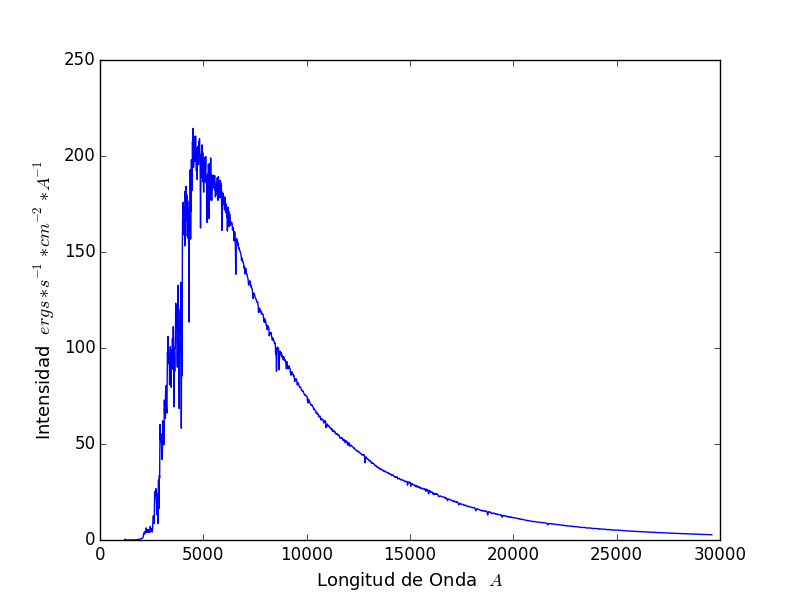
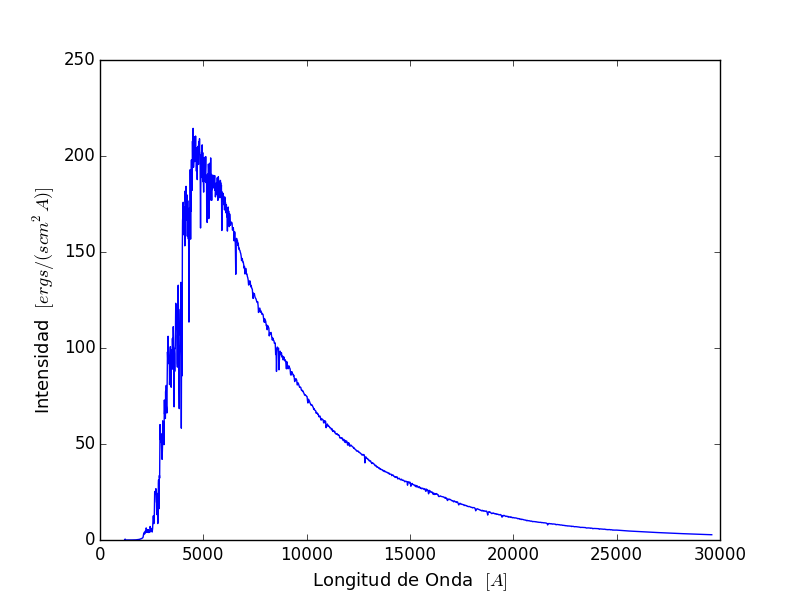
Cambios menores en los codigos

Changed region(s): [[0.0312, 0.3, 0.0625, 0.75], [0.375, 0.96, 0.625, 0.99]]

diff --git a/Integralplanck.py b/Integralplanck.py
@@ -1,7 +1,10 @@
 import numpy as np
 import scipy.constants as sc
+import scipy.integrate
 
 def y(x):
+    if x == 0:
+        return 0
     u = np.tan(x)**3/(np.cos(x)**2)/(np.exp(np.tan(x)) - 1.0)
     return u
 
@@ -16,6 +19,15 @@ def simpson(a,b,f,N):
         I += s
     return I
 
-Integral = simpson(0.01,np.pi/2.0,y,100)
+Integral = simpson(0,np.pi/2.0,y,100)
+
+print("Integral numerica con mi algoritmo = " + str(Integral) + " (Notar que analiticamente es pi^4/15)")
+print("Algoritmo de scipy = " + str(scipy.integrate.quad(y,0,np.pi/2.)))
+
+
 Teff = 5778
 P = 2*np.pi*sc.h/sc.c**2*(sc.k*Teff/sc.h)**4*Integral
+
+Flujoti = 1366.09
+Radio = sc.au*np.sqrt(Flujoti/P)
+print("Radio solar =  " + str(Radio) + " [m]")

diff --git a/grafica.py b/grafica.py
@@ -8,6 +8,6 @@ intens = np.loadtxt("sun_AM0.dat", usecols = (1,))
 intens *= 100
 
 plt.plot(wave[0:1470],intens[0:1470])
-plt.xlabel('Longitud de Onda  '+'$ A $', fontsize=13)
-plt.ylabel('Intensidad  '+'$ ergs*s^{-1}*cm^{-2}*A^{-1} $', fontsize=13)
+plt.xlabel('Longitud de Onda  '+'$ [A] $', fontsize=13)
+plt.ylabel('Intensidad  '+'$ [ergs/(s cm^{2} A)] $', fontsize=13)
 plt.savefig('planck.png')

diff --git a/Integraldata.py b/Integraldata.py
@@ -17,7 +17,3 @@ Flux = trapez(wave,intens)
 
 print("Mi algoritmo: " + str(Flux) + "( W*m^-2)" )
 print("Algoritmo de scipy: " + str(scipy.integrate.trapz(intens,wave)) + "( W*m^-2)")
-
-Lum = 4.0*np.pi*scipy.constants.au**2*Flux
-Teff = 5778
-Radio = (scipy.constants.au/(Teff)**2)*np.sqrt(Flux/scipy.constants.sigma)
